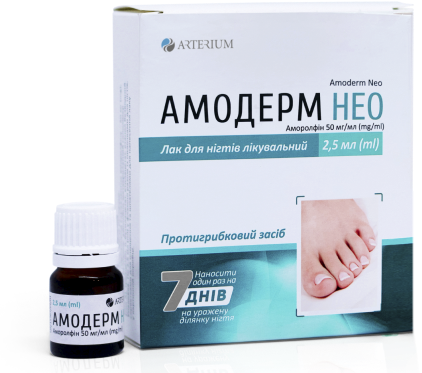
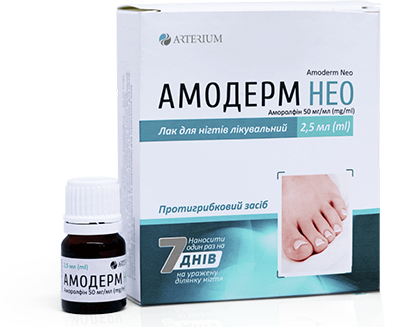
change imgs

diff --git a/index.html b/index.html
@@ -171,7 +171,7 @@
                     </div>
                 </div>
                 <div class="section-banner__wrap-img">
-                    <img src="assets/img/preparat_01_2x.png" alt="" class="section-banner__img" width="808" height="539">
+                    <img src="assets/img/preparat_01.png" alt="" class="section-banner__img" width="808" height="539">
                 </div>
             </div>
         </section>
